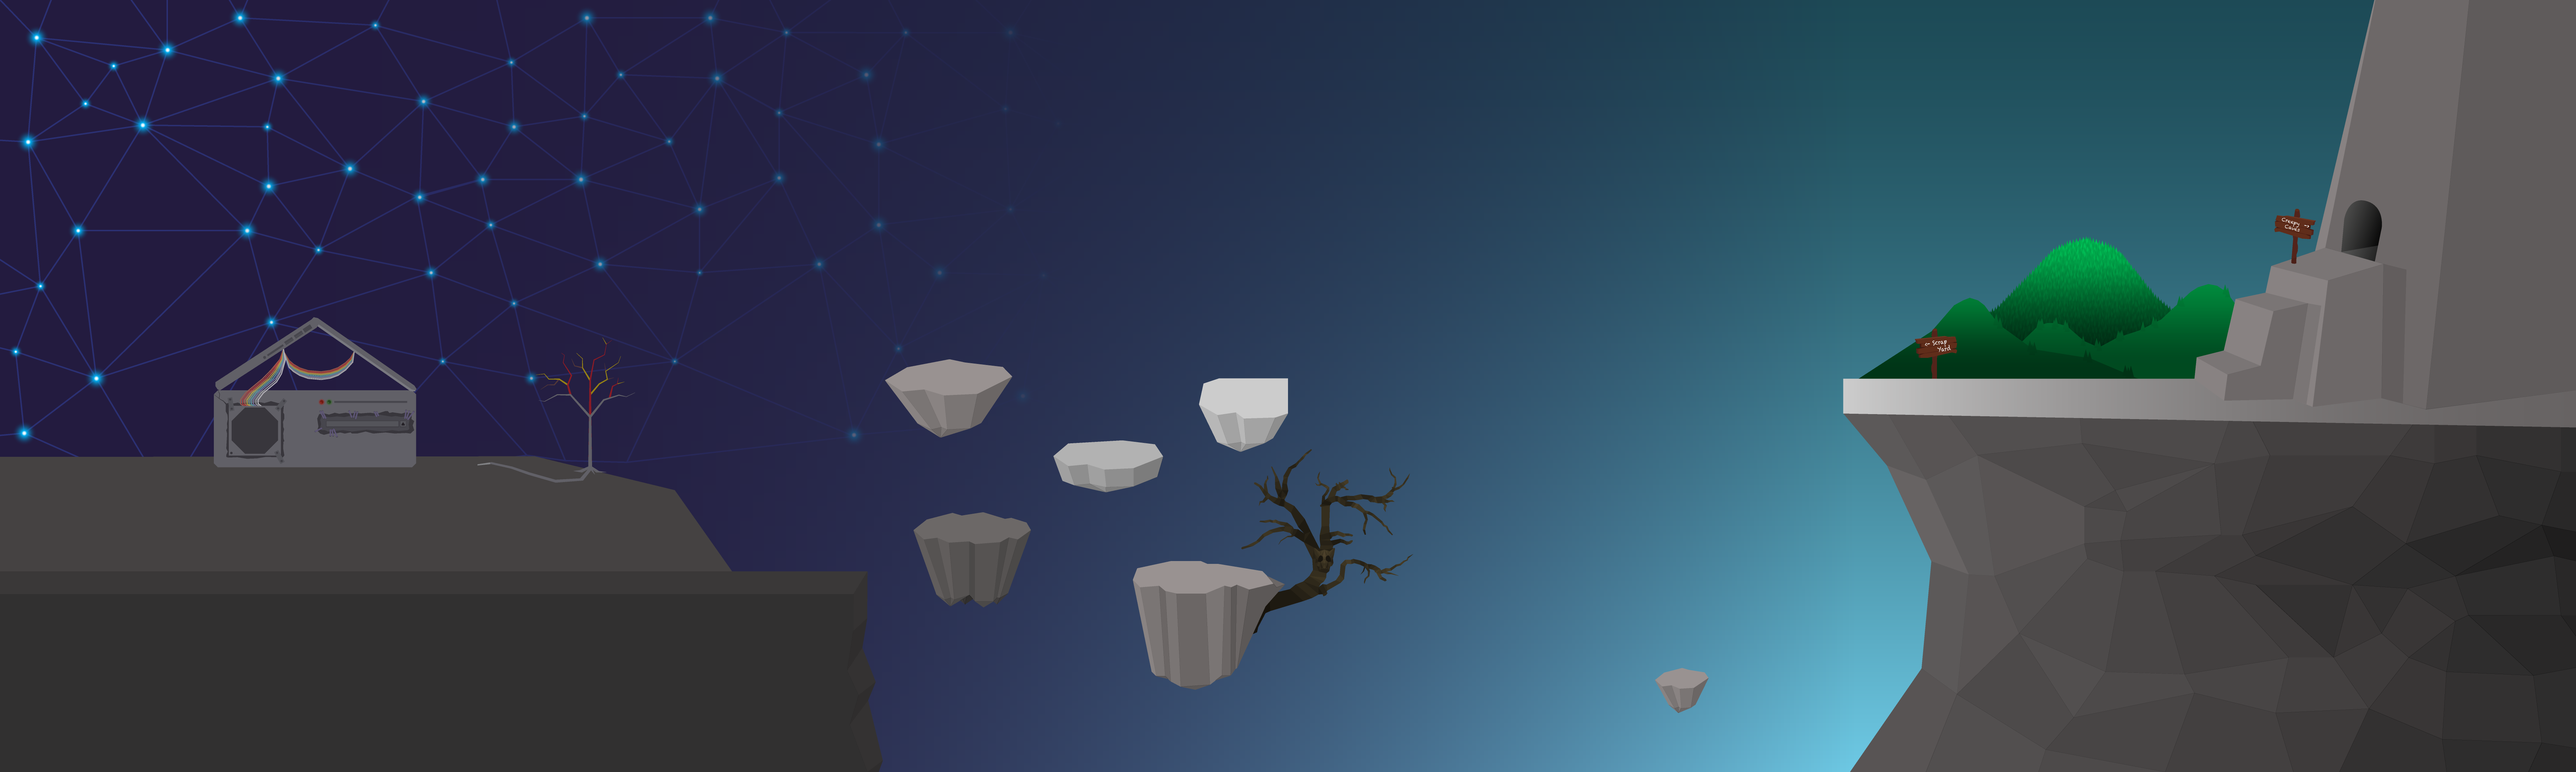
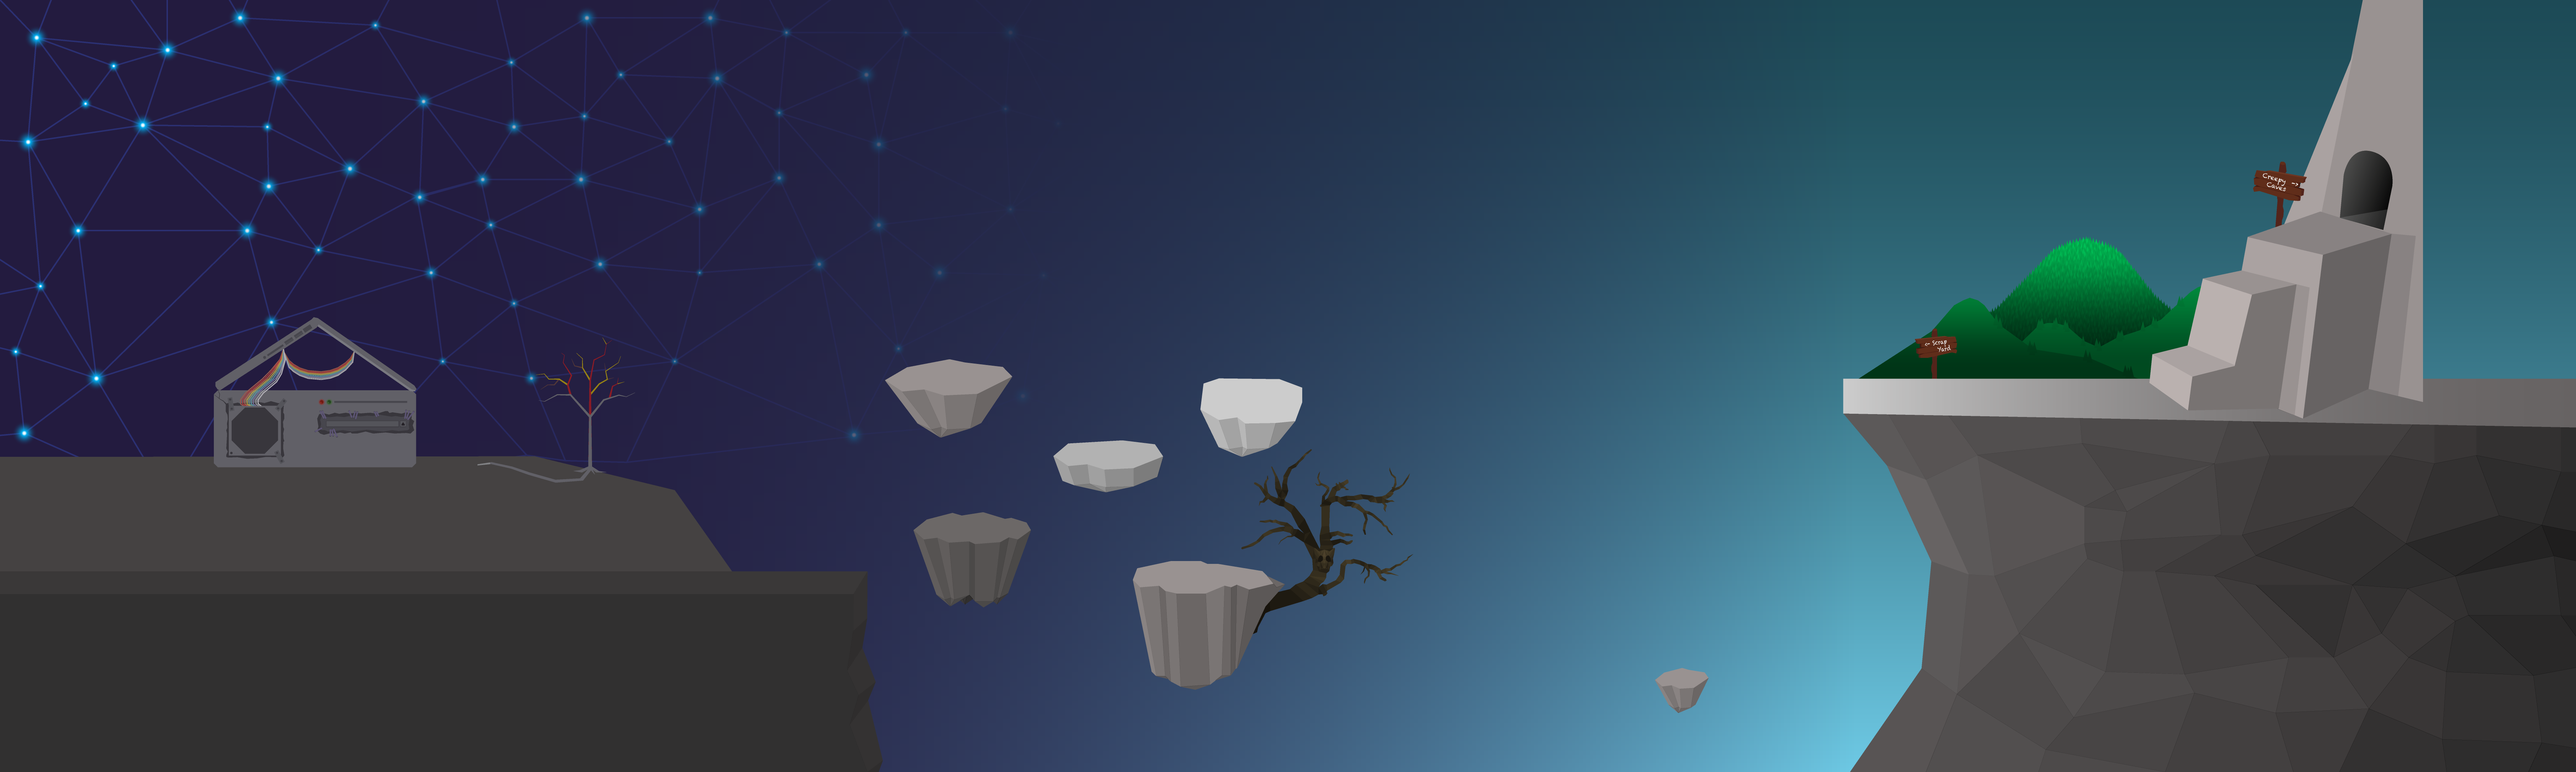
Line up ledges correctly

Changed region(s): [[0.8116, 0.0, 1.0, 0.5558], [0.4682, 0.494, 0.5307, 0.5866]]

diff --git a/app/l10n-templates/levels/intro/03-editing-text-i.html b/app/l10n-templates/levels/intro/03-editing-text-i.html
@@ -85,7 +85,7 @@
         font-size: 16px;
         padding: 10px;
         display: block;
-        background: #ddd;
+        background: #cccccc;
         float: left;
         clear: both;
       }
@@ -93,7 +93,7 @@
       p:nth-of-type(1), p:nth-of-type(2) {
         position: absolute;
         left: 0;
-        top: 280px;
+        top: 286px;
       }
 
       p:nth-of-type(2) {

diff --git a/app/l10n-templates/levels/intro/02-jump-lengths.html b/app/l10n-templates/levels/intro/02-jump-lengths.html
@@ -56,7 +56,7 @@
       .f {
         width: 115px;
         right: 0;
-        bottom: 266px;
+        bottom: 260px;
       }
     </style>
   </head>
